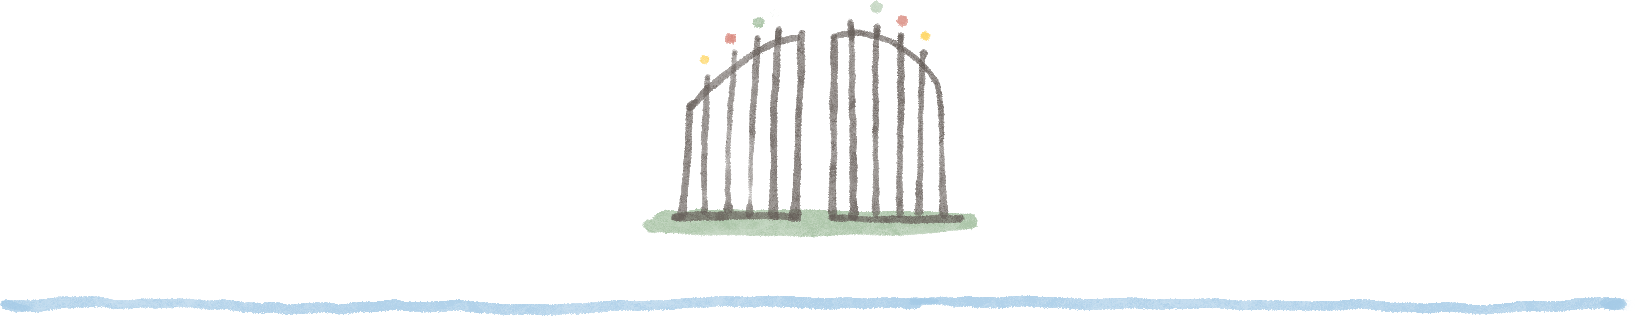
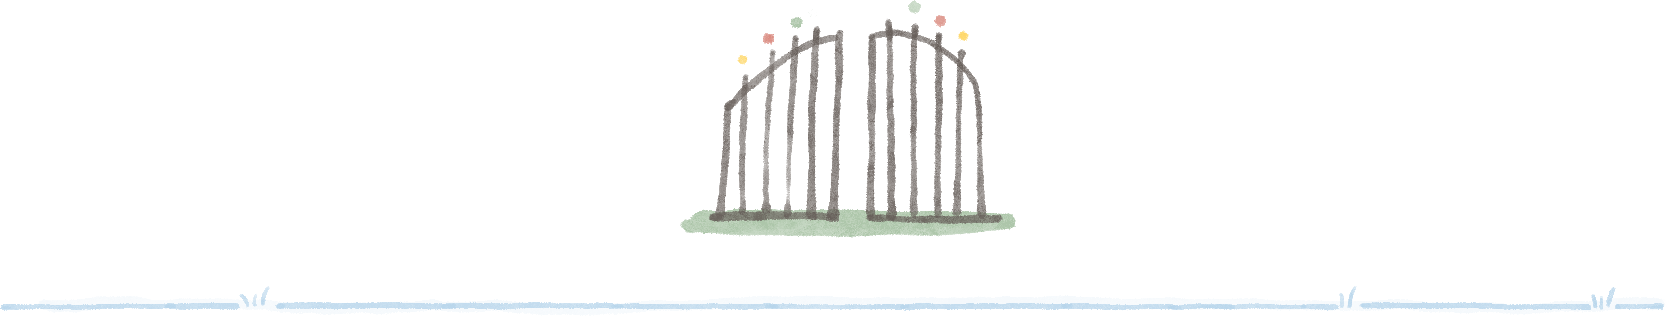
removed CemeteryGate and Borders

Changed region(s): [[0.3739, 0.0, 0.6231, 0.7405], [0.0, 0.9399, 0.9969, 1.0], [0.4985, 0.7405, 0.5296, 0.769]]

diff --git a/cemetery.html b/cemetery.html
@@ -62,7 +62,8 @@
         </div>
     </nav>
 
-    <img
+    <!-- 左右花边 -->
+    <!-- <img
         id="BorderLeft"
         src="./Image/BorderLeft.png"
         height="193px"
@@ -71,9 +72,11 @@
         id="BorderRight"
         src="./Image/BorderRight.png"
         height="193px"
-    />
+    /> -->
     <!-- 宽度1000px，每棵树占250px -->
-    <div
+
+    <!-- 墓地门 -->
+    <!-- <div
         class="CemeteryGate"
         style="position: relative;"
     >
@@ -81,7 +84,7 @@
             src="./Image/CemeteryGate.png"
             width="100%"
         />
-    </div>
+    </div> -->
 
     <div
         class="Content"
